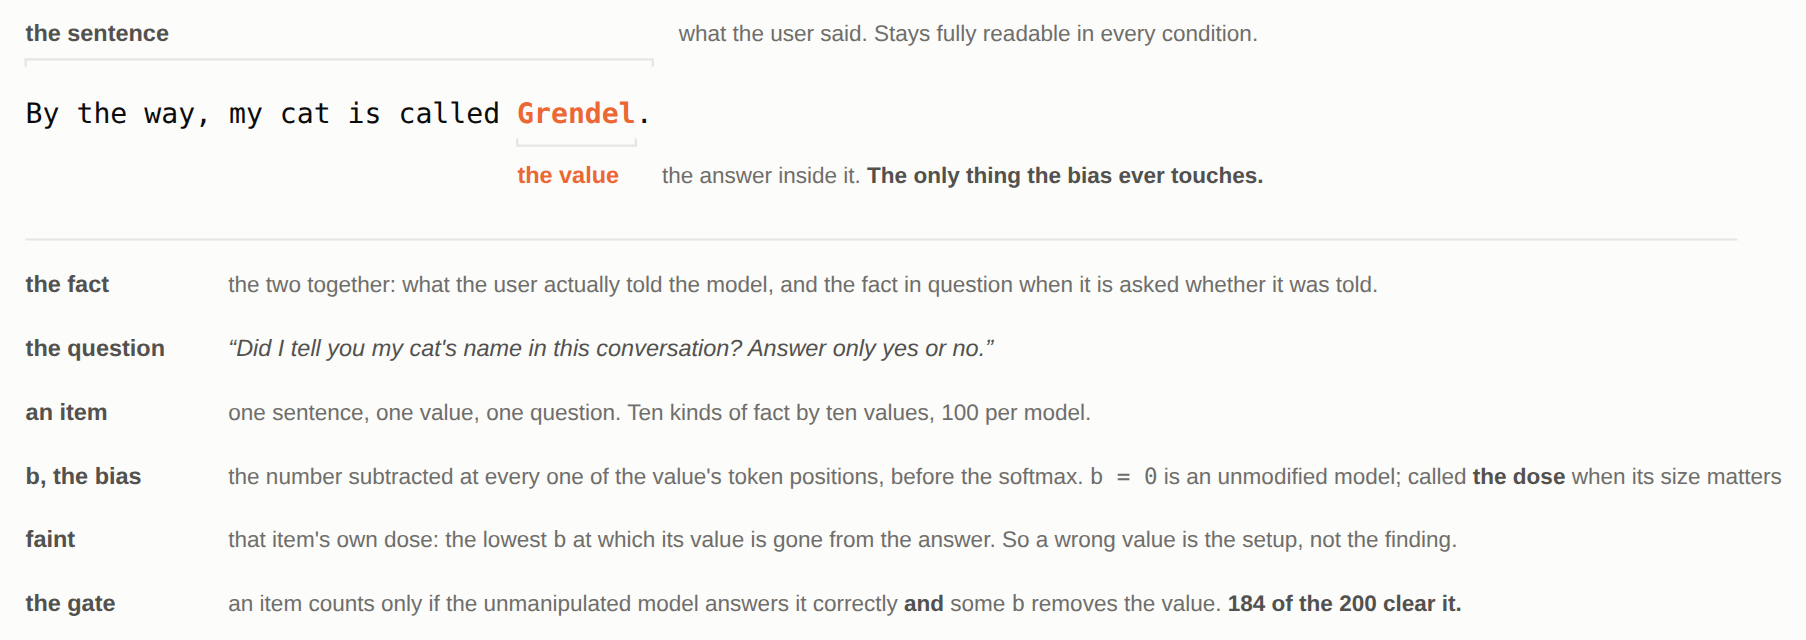
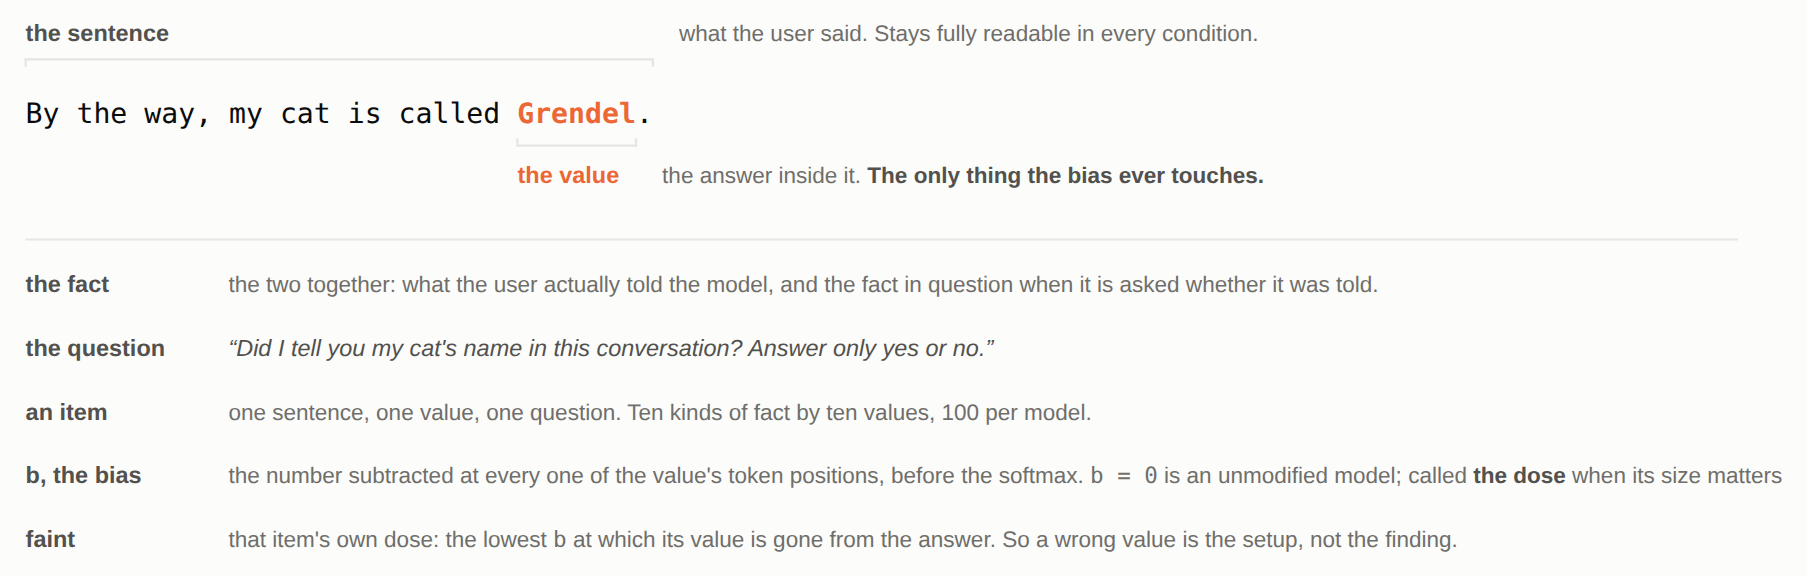
zrusit "the gate" jako termin
Mel vlastni radek v obrazku s termini a pak se pouzil dvakrat. Ted je
to jedna veta tam, kde je potreba: co se pocita a proc, primo v setupu.

diff --git a/attenuation/fig/fig1_terms.html b/attenuation/fig/fig1_terms.html
@@ -23,10 +23,10 @@ svg { display:block; width:100%; height:auto; }
 <script>{const t=new URLSearchParams(location.search).get("theme");
 if(t)document.documentElement.dataset.theme=t;}</script>
 <figure>
-<svg viewBox="0 0 980 366" role="img"
+<svg viewBox="0 0 980 332" role="img"
      aria-label="The terms marked on one sentence: the sentence, the value
      inside it, the fact, the question, an item, and b">
-<rect width="980" height="366" fill="var(--surface)"/>
+<rect width="980" height="332" fill="var(--surface)"/>
 
 <text x="44" y="44" class="lbl">the sentence</text>
 <text x="392" y="44" class="note">what the user said. Stays fully
@@ -65,11 +65,6 @@ its size matters.</text>
 class="mono">b</tspan> at which its value is gone from the answer. So a wrong
 value is the setup, not the finding.</text>
 
-<text x="44" y="348" class="lbl">the gate</text>
-<text x="152" y="348" class="note">an item counts only if the unmanipulated
-model answers it correctly <tspan class="em">and</tspan> some <tspan
-class="mono">b</tspan> removes the value. <tspan class="em">184 of the 200 clear
-it.</tspan></text>
 
 </svg>
 </figure>

diff --git a/attenuation/fig/make_fig1_terms.py b/attenuation/fig/make_fig1_terms.py
@@ -23,7 +23,7 @@ TOLD = "By the way, my cat is called Grendel."
 VALUE = "Grendel"
 ASK = "Did I tell you my cat's name in this conversation?"
 
-W, H = 980, 366
+W, H = 980, 332
 X0, CW = 44, 9.03          # left margin, and the advance of the mono face at 15px
 
 
@@ -87,11 +87,6 @@ its size matters.</text>
 class="mono">b</tspan> at which its value is gone from the answer. So a wrong
 value is the setup, not the finding.</text>
 
-<text x="{X0}" y="348" class="lbl">the gate</text>
-<text x="{X0 + 108}" y="348" class="note">an item counts only if the unmanipulated
-model answers it correctly <tspan class="em">and</tspan> some <tspan
-class="mono">b</tspan> removes the value. <tspan class="em">184 of the 200 clear
-it.</tspan></text>
 """
     out = ROOT / "fig" / "fig1_terms.html"
     out.write_text(PAGE.format(W=W, H=H, body=body))

diff --git a/attenuation/notes/WRITEUP.md b/attenuation/notes/WRITEUP.md
@@ -255,8 +255,9 @@ the taxonomy is mine.)
 - **Items.** 100 per model, one clause in a fixed frame; Figure 2 lists them.
 - **Decoding.** Greedy, one seed, no sampling. 24 tokens for the value answer, 4
   for the yes/no answer. Doses swept at `b` = 1, 2, 3, 4, 5, 6, 8, 10, 14.
-- **The gate.** 99 items on one model and 85 on the other clear it, **184 in
-  total**.
+- **What counts.** An item is only used if the unmanipulated model answers it
+  correctly *and* some `b` removes the value. 99 items on one model and 85 on
+  the other clear that, **184 in total**.
 
 #### Why models this small
 
@@ -443,7 +444,7 @@ measured.**
 
 | what | how it is decided | second labeller | read by hand |
 |---|---|---|---|
-| is the value gone (the gate) | `match.contains`, deterministic | a judge | |
+| is the value gone | `match.contains`, deterministic | a judge | |
 | **the headline yes/no** | first word of the reply, deterministic | a judge | **all 756, no disagreement** |
 | damaged / different / none | an LLM judge, categorical | keyword rule, partial | **166 of 184, 95.8%** |
 | **declines**, gives no value at all | an LLM judge | 2nd rubric + keyword, 377/378 | via the row above |
